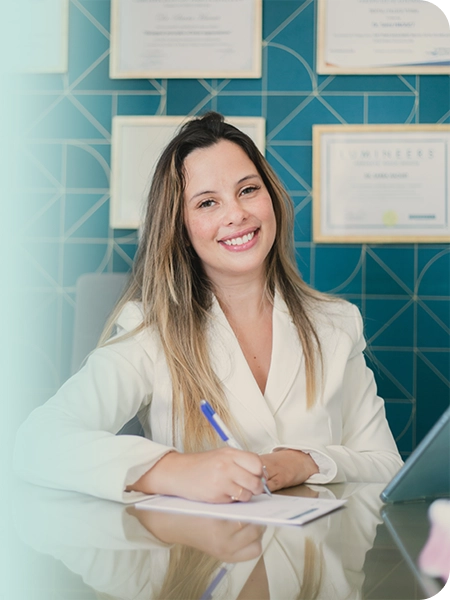
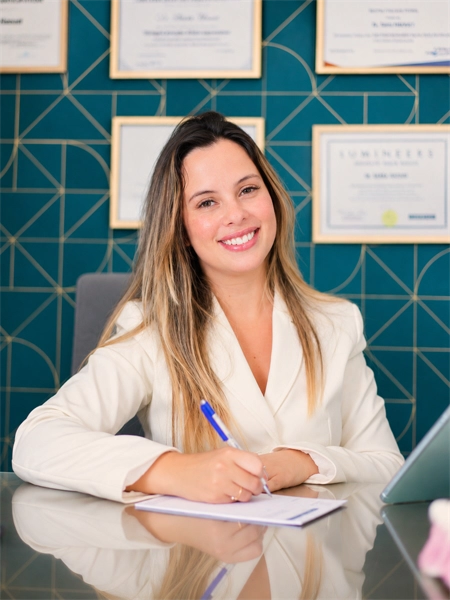
fix: Update French translation for expertise section and adjust background gradient in About page styles; add metadata for new expertise image

diff --git a/src/Pages/About/About.module.css b/src/Pages/About/About.module.css
@@ -64,7 +64,7 @@
     bottom: 0;
     left: -1px;
     width: 250px;
-    background: linear-gradient(to right, var(--secondary-bg) 0%, rgba(204, 231, 224, 0.8) 30%, transparent 100%);
+    background: linear-gradient(to right, var(--secondary-bg) 0%, rgba(204, 231, 224, 0.8) 20%, transparent 60%);
     z-index: 1;
 }
 
